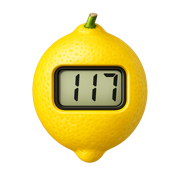
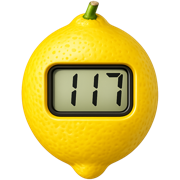
Increased image sizes, reduced borders; adjust gitignore for .DS_Store

diff --git a/static/index.html b/static/index.html
@@ -14,15 +14,15 @@
     margin-bottom: 3rem;
     border-radius: 0 0 16px 16px;
   }
-  header h1 { color: #5C4A00; margin: 0; font-size: 1.75rem; }
-  header img { height: 1.5em; vertical-align: middle; margin-right: 0.5rem; }
+  header h1 { color: #5C4A00; margin: 0; font-size: 1.75rem; display: flex; align-items: center; justify-content: center; gap: 0.5rem; }
+  header img { height: 84px; width: 84px; }
   #value { font-size: 4rem; }
   #timestamp { color: #666; }
 </style>
 </head>
 <body>
   <header>
-    <h1><img src="/static/favicon.png" alt="">Freestyle Limón</h1>
+    <h1><img src="/static/logo.png" alt="">Freestyle Limón</h1>
   </header>
   <div id="value">waiting for first reading&hellip;</div>
   <div id="timestamp"></div>
